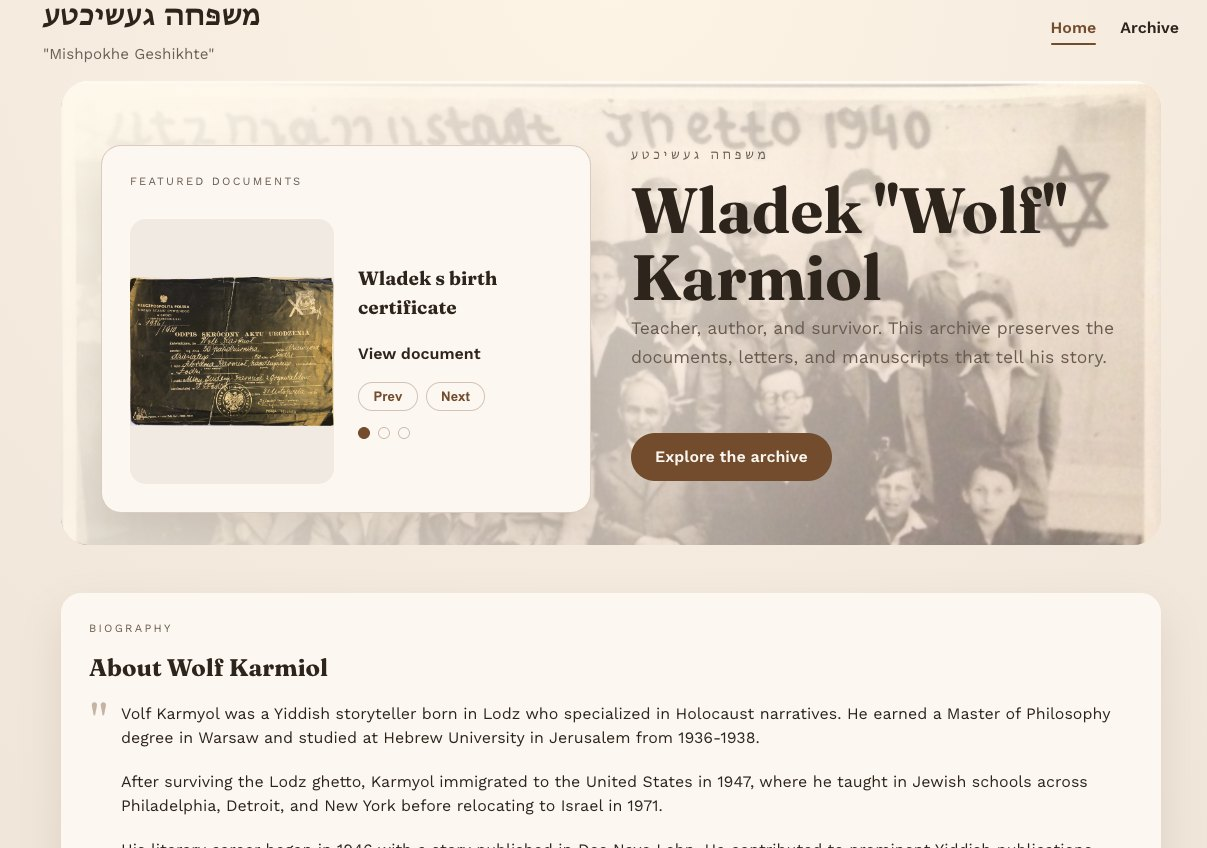
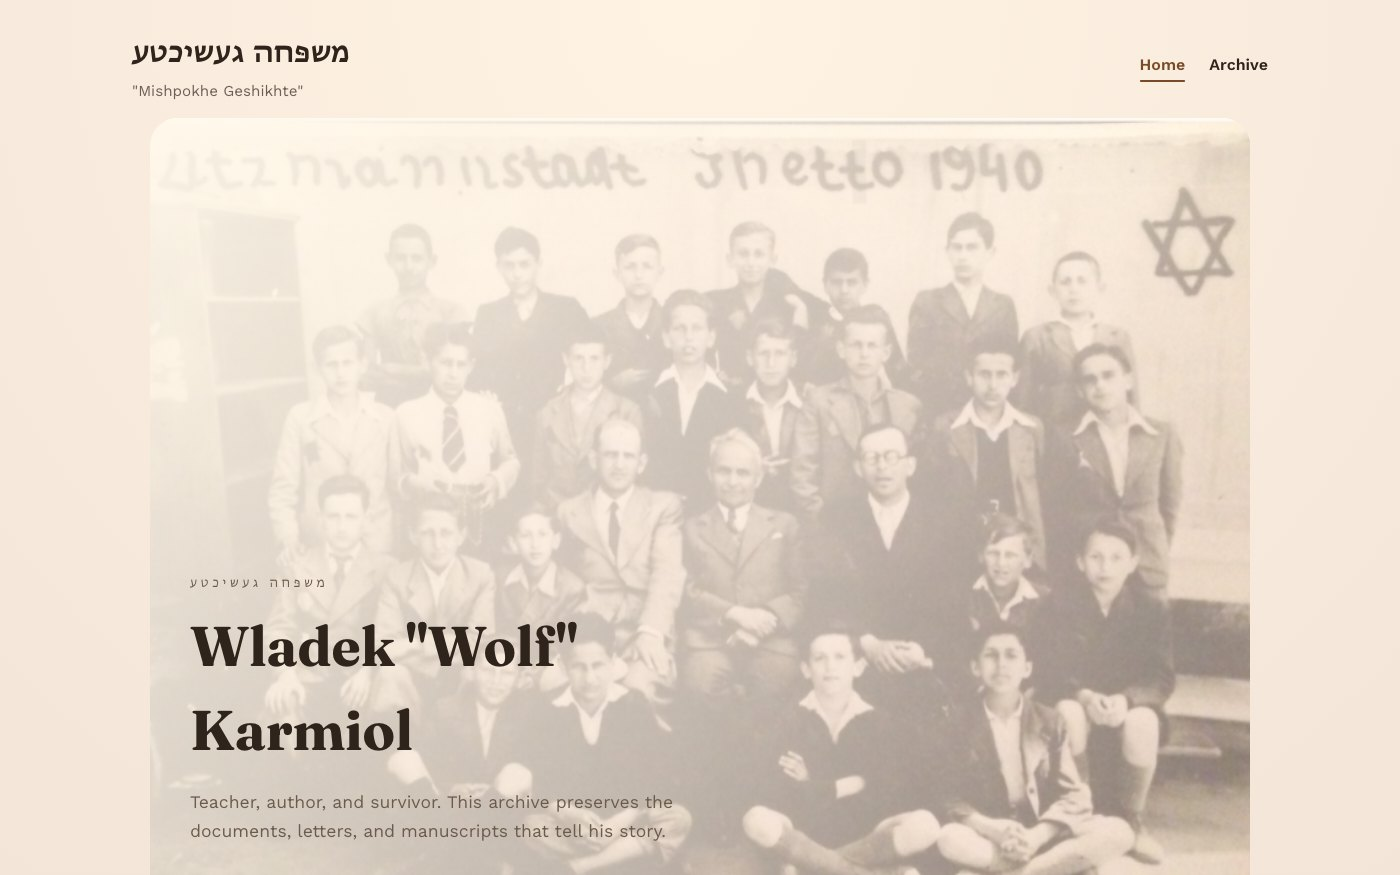
Refresh Mishpokhe and Body Therapy Arts screenshots from the live sites

diff --git a/src/home/HomePage.jsx b/src/home/HomePage.jsx
@@ -75,7 +75,7 @@ const projects = [
     title: "Mishpokhe Geshikhte",
     kind: "Family-history archive",
     img: "/home/mishpokhe.jpg",
-    alt: "Mishpokhe Geshikhte home page featuring Wladek \"Wolf\" Karmiol and a carousel of archived documents.",
+    alt: "Mishpokhe Geshikhte home page: Wladek \"Wolf\" Karmiol's name over a 1940 group photograph from the Lodz ghetto.",
     summary:
       "A browsable collection of the documents, letters and manuscripts of Wladek \"Wolf\" Karmiol, a Yiddish storyteller and survivor of the Lodz ghetto, built for readability and respectful storytelling.",
     tech: ["React", "JavaScript", "Firestore"],
